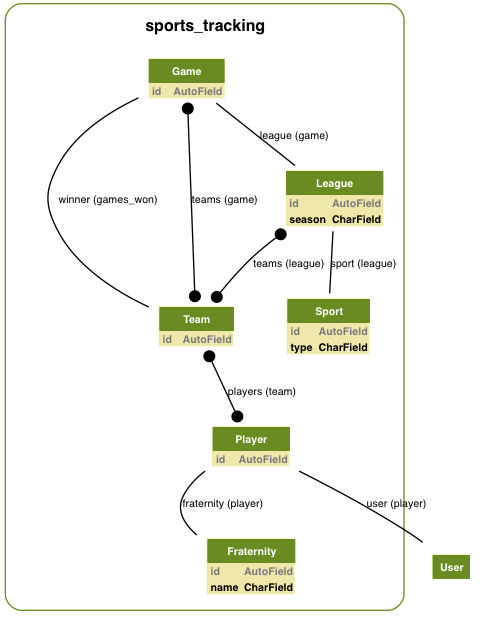
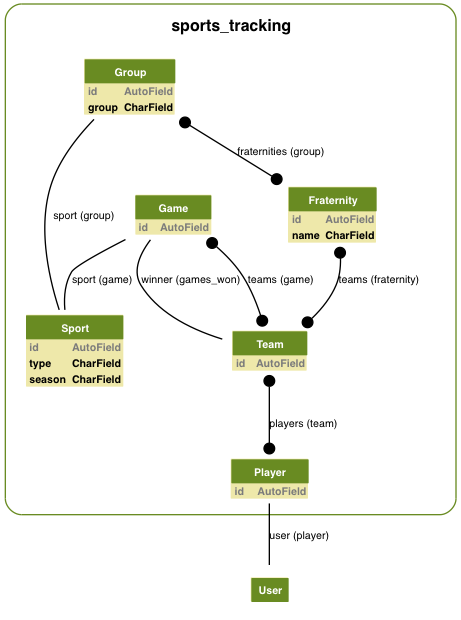
Change model relations, added method overall_points_for_sport to fraternity model

Changed region(s): [[0.0, 0.0, 1.0, 1.0], [0.1215, 0.2156, 0.1822, 0.2771]]

diff --git a/sports/sports/apps/sports_tracking/migrations/0014_auto__del_field_player_fraternity__add_field_game_sport__add_field_gro.py b/sports/sports/apps/sports_tracking/migrations/0014_auto__del_field_player_fraternity__add_field_game_sport__add_field_gro.py
@@ -1,0 +1,157 @@
+# -*- coding: utf-8 -*-
+import datetime
+from south.db import db
+from south.v2 import SchemaMigration
+from django.db import models
+
+
+class Migration(SchemaMigration):
+
+    def forwards(self, orm):
+        # Deleting field 'Player.fraternity'
+        db.delete_column('sports_tracking_player', 'fraternity_id')
+
+        # Adding field 'Game.sport'
+        db.add_column('sports_tracking_game', 'sport',
+                      self.gf('django.db.models.fields.related.ForeignKey')(default=0, to=orm['sports_tracking.Sport']),
+                      keep_default=False)
+
+        # Removing M2M table for field group on 'Sport'
+        db.delete_table('sports_tracking_sport_group')
+
+        # Adding field 'Group.sport'
+        db.add_column('sports_tracking_group', 'sport',
+                      self.gf('django.db.models.fields.related.ForeignKey')(default=0, to=orm['sports_tracking.Sport']),
+                      keep_default=False)
+
+        # Removing M2M table for field fraternity on 'Group'
+        db.delete_table('sports_tracking_group_fraternity')
+
+        # Adding M2M table for field fraternities on 'Group'
+        db.create_table('sports_tracking_group_fraternities', (
+            ('id', models.AutoField(verbose_name='ID', primary_key=True, auto_created=True)),
+            ('group', models.ForeignKey(orm['sports_tracking.group'], null=False)),
+            ('fraternity', models.ForeignKey(orm['sports_tracking.fraternity'], null=False))
+        ))
+        db.create_unique('sports_tracking_group_fraternities', ['group_id', 'fraternity_id'])
+
+        # Adding M2M table for field teams on 'Fraternity'
+        db.create_table('sports_tracking_fraternity_teams', (
+            ('id', models.AutoField(verbose_name='ID', primary_key=True, auto_created=True)),
+            ('fraternity', models.ForeignKey(orm['sports_tracking.fraternity'], null=False)),
+            ('team', models.ForeignKey(orm['sports_tracking.team'], null=False))
+        ))
+        db.create_unique('sports_tracking_fraternity_teams', ['fraternity_id', 'team_id'])
+
+
+    def backwards(self, orm):
+        # Adding field 'Player.fraternity'
+        db.add_column('sports_tracking_player', 'fraternity',
+                      self.gf('django.db.models.fields.related.ForeignKey')(default=0, to=orm['sports_tracking.Fraternity']),
+                      keep_default=False)
+
+        # Deleting field 'Game.sport'
+        db.delete_column('sports_tracking_game', 'sport_id')
+
+        # Adding M2M table for field group on 'Sport'
+        db.create_table('sports_tracking_sport_group', (
+            ('id', models.AutoField(verbose_name='ID', primary_key=True, auto_created=True)),
+            ('sport', models.ForeignKey(orm['sports_tracking.sport'], null=False)),
+            ('group', models.ForeignKey(orm['sports_tracking.group'], null=False))
+        ))
+        db.create_unique('sports_tracking_sport_group', ['sport_id', 'group_id'])
+
+        # Deleting field 'Group.sport'
+        db.delete_column('sports_tracking_group', 'sport_id')
+
+        # Adding M2M table for field fraternity on 'Group'
+        db.create_table('sports_tracking_group_fraternity', (
+            ('id', models.AutoField(verbose_name='ID', primary_key=True, auto_created=True)),
+            ('group', models.ForeignKey(orm['sports_tracking.group'], null=False)),
+            ('fraternity', models.ForeignKey(orm['sports_tracking.fraternity'], null=False))
+        ))
+        db.create_unique('sports_tracking_group_fraternity', ['group_id', 'fraternity_id'])
+
+        # Removing M2M table for field fraternities on 'Group'
+        db.delete_table('sports_tracking_group_fraternities')
+
+        # Removing M2M table for field teams on 'Fraternity'
+        db.delete_table('sports_tracking_fraternity_teams')
+
+
+    models = {
+        'auth.group': {
+            'Meta': {'object_name': 'Group'},
+            'id': ('django.db.models.fields.AutoField', [], {'primary_key': 'True'}),
+            'name': ('django.db.models.fields.CharField', [], {'unique': 'True', 'max_length': '80'}),
+            'permissions': ('django.db.models.fields.related.ManyToManyField', [], {'to': "orm['auth.Permission']", 'symmetrical': 'False', 'blank': 'True'})
+        },
+        'auth.permission': {
+            'Meta': {'ordering': "('content_type__app_label', 'content_type__model', 'codename')", 'unique_together': "(('content_type', 'codename'),)", 'object_name': 'Permission'},
+            'codename': ('django.db.models.fields.CharField', [], {'max_length': '100'}),
+            'content_type': ('django.db.models.fields.related.ForeignKey', [], {'to': "orm['contenttypes.ContentType']"}),
+            'id': ('django.db.models.fields.AutoField', [], {'primary_key': 'True'}),
+            'name': ('django.db.models.fields.CharField', [], {'max_length': '50'})
+        },
+        'auth.user': {
+            'Meta': {'object_name': 'User'},
+            'date_joined': ('django.db.models.fields.DateTimeField', [], {'default': 'datetime.datetime.now'}),
+            'email': ('django.db.models.fields.EmailField', [], {'max_length': '75', 'blank': 'True'}),
+            'first_name': ('django.db.models.fields.CharField', [], {'max_length': '30', 'blank': 'True'}),
+            'groups': ('django.db.models.fields.related.ManyToManyField', [], {'to': "orm['auth.Group']", 'symmetrical': 'False', 'blank': 'True'}),
+            'id': ('django.db.models.fields.AutoField', [], {'primary_key': 'True'}),
+            'is_active': ('django.db.models.fields.BooleanField', [], {'default': 'True'}),
+            'is_staff': ('django.db.models.fields.BooleanField', [], {'default': 'False'}),
+            'is_superuser': ('django.db.models.fields.BooleanField', [], {'default': 'False'}),
+            'last_login': ('django.db.models.fields.DateTimeField', [], {'default': 'datetime.datetime.now'}),
+            'last_name': ('django.db.models.fields.CharField', [], {'max_length': '30', 'blank': 'True'}),
+            'password': ('django.db.models.fields.CharField', [], {'max_length': '128'}),
+            'user_permissions': ('django.db.models.fields.related.ManyToManyField', [], {'to': "orm['auth.Permission']", 'symmetrical': 'False', 'blank': 'True'}),
+            'username': ('django.db.models.fields.CharField', [], {'unique': 'True', 'max_length': '30'})
+        },
+        'contenttypes.contenttype': {
+            'Meta': {'ordering': "('name',)", 'unique_together': "(('app_label', 'model'),)", 'object_name': 'ContentType', 'db_table': "'django_content_type'"},
+            'app_label': ('django.db.models.fields.CharField', [], {'max_length': '100'}),
+            'id': ('django.db.models.fields.AutoField', [], {'primary_key': 'True'}),
+            'model': ('django.db.models.fields.CharField', [], {'max_length': '100'}),
+            'name': ('django.db.models.fields.CharField', [], {'max_length': '100'})
+        },
+        'sports_tracking.fraternity': {
+            'Meta': {'object_name': 'Fraternity'},
+            'id': ('django.db.models.fields.AutoField', [], {'primary_key': 'True'}),
+            'name': ('django.db.models.fields.CharField', [], {'max_length': "'200'"}),
+            'teams': ('django.db.models.fields.related.ManyToManyField', [], {'to': "orm['sports_tracking.Team']", 'symmetrical': 'False'})
+        },
+        'sports_tracking.game': {
+            'Meta': {'object_name': 'Game'},
+            'id': ('django.db.models.fields.AutoField', [], {'primary_key': 'True'}),
+            'sport': ('django.db.models.fields.related.ForeignKey', [], {'to': "orm['sports_tracking.Sport']"}),
+            'teams': ('django.db.models.fields.related.ManyToManyField', [], {'to': "orm['sports_tracking.Team']", 'symmetrical': 'False'}),
+            'winner': ('django.db.models.fields.related.ForeignKey', [], {'related_name': "'games_won'", 'to': "orm['sports_tracking.Team']"})
+        },
+        'sports_tracking.group': {
+            'Meta': {'object_name': 'Group'},
+            'fraternities': ('django.db.models.fields.related.ManyToManyField', [], {'to': "orm['sports_tracking.Fraternity']", 'symmetrical': 'False'}),
+            'group': ('django.db.models.fields.CharField', [], {'default': "'A'", 'max_length': "'300'"}),
+            'id': ('django.db.models.fields.AutoField', [], {'primary_key': 'True'}),
+            'sport': ('django.db.models.fields.related.ForeignKey', [], {'to': "orm['sports_tracking.Sport']"})
+        },
+        'sports_tracking.player': {
+            'Meta': {'object_name': 'Player'},
+            'id': ('django.db.models.fields.AutoField', [], {'primary_key': 'True'}),
+            'user': ('django.db.models.fields.related.ForeignKey', [], {'to': "orm['auth.User']"})
+        },
+        'sports_tracking.sport': {
+            'Meta': {'object_name': 'Sport'},
+            'id': ('django.db.models.fields.AutoField', [], {'primary_key': 'True'}),
+            'season': ('django.db.models.fields.CharField', [], {'default': "'FL'", 'max_length': "'300'"}),
+            'type': ('django.db.models.fields.CharField', [], {'default': "'BB'", 'max_length': "'300'"})
+        },
+        'sports_tracking.team': {
+            'Meta': {'object_name': 'Team'},
+            'id': ('django.db.models.fields.AutoField', [], {'primary_key': 'True'}),
+            'players': ('django.db.models.fields.related.ManyToManyField', [], {'to': "orm['sports_tracking.Player']", 'symmetrical': 'False'})
+        }
+    }
+
+    complete_apps = ['sports_tracking']

diff --git a/sports/sports/apps/sports_tracking/models.py b/sports/sports/apps/sports_tracking/models.py
@@ -3,28 +3,6 @@ from django.db import models
 from django.contrib.auth.models import User
 from django.contrib import admin
 
-class Fraternity(models.Model):
-    name = models.CharField(max_length="200")
-
-    def __unicode__(self):
-        return self.name
-
-class Group(models.Model):
-    GROUP_A = 'A'
-    GROUP_B = 'B'
-    GROUP_CHOICES = (
-        (GROUP_A, 'Group A'),
-        (GROUP_B, 'Group B'),
-    )
-    group = models.CharField(max_length="300", choices=GROUP_CHOICES, default=GROUP_A)
-    fraternity = models.ManyToManyField(Fraternity)
- 
-    def display(self):
-        return self.get_group_display()
-
-    def __unicode__(self):
-        return self.display()
-
 
 class Sport(models.Model):
     BASKETBALL = 'BB'
@@ -52,7 +30,6 @@ class Sport(models.Model):
         (SPRING, 'Spring'),
     )
     season = models.CharField(max_length="300", choices=SEASON_CHOICES, default=FALL)
-    group = models.ManyToManyField(Group)
 
     def display(self):
         return self.get_type_display()
@@ -62,7 +39,6 @@ class Sport(models.Model):
 
 class Player(models.Model):
     user = models.ForeignKey(User)
-    fraternity = models.ForeignKey(Fraternity)
     
 class Team(models.Model):
     players = models.ManyToManyField(Player)
@@ -73,6 +49,35 @@ class Team(models.Model):
 class Game(models.Model):
     teams = models.ManyToManyField(Team)
     winner = models.ForeignKey(Team,related_name="games_won")
+    sport = models.ForeignKey(Sport)
+
+class Fraternity(models.Model):
+    name = models.CharField(max_length="200")
+    teams = models.ManyToManyField(Team)
+
+    def overall_points_for_sport(self,sport):
+        points = 0
+        for team in self.teams:
+            points += team.games_won.filter(sport=sport).count()
+        return points
+    def __unicode__(self):
+        return self.name
+
+class Group(models.Model):
+    GROUP_A = 'A'
+    GROUP_B = 'B'
+    GROUP_CHOICES = (
+        (GROUP_A, 'Group A'),
+        (GROUP_B, 'Group B'),
+    )
+    group = models.CharField(max_length="300", choices=GROUP_CHOICES, default=GROUP_A)
+    fraternities = models.ManyToManyField(Fraternity)
+    sport = models.ForeignKey(Sport)
+    def display(self):
+        return self.get_group_display()
+
+    def __unicode__(self):
+        return self.display()
 
 admin.site.register(Fraternity)
 admin.site.register(Group)
